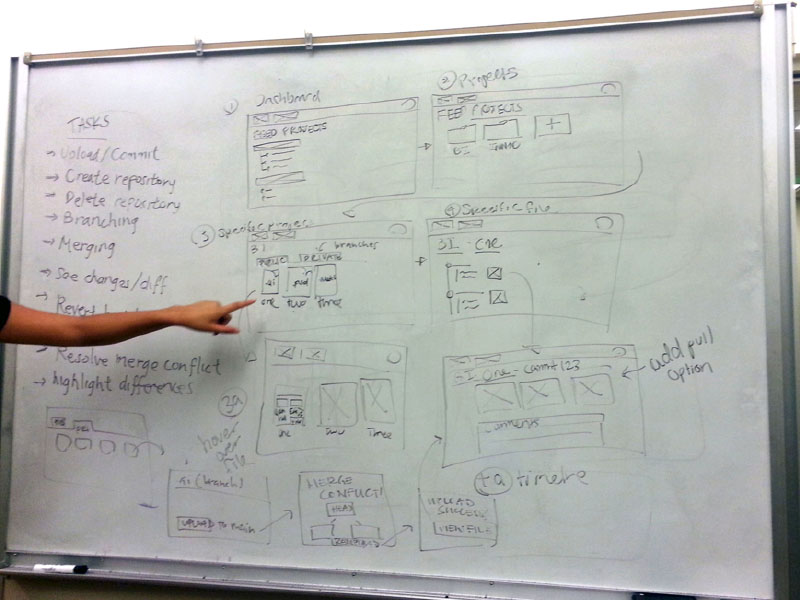
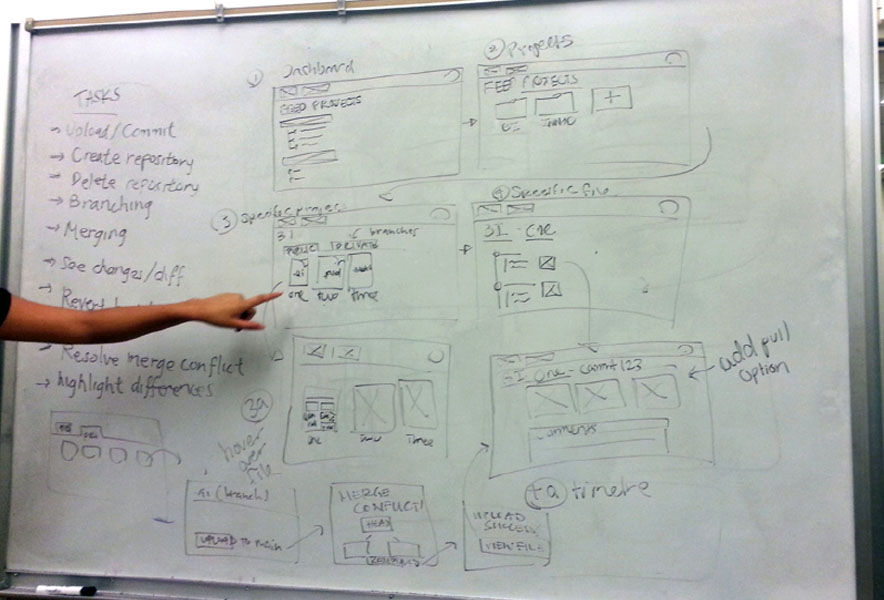
Fixed 2 whiteboard images to be of same dimensions so layout can be responsive

diff --git a/work/vertigo.html b/work/vertigo.html
@@ -99,11 +99,11 @@
 
 			<div class="row-container">
 				<center>
-					<div class="cell" style="padding-right: 20px">
-						<img src="../assets/vertigo/whiteboard1.jpg" style="height: 325px">
+					<div class="cell" style="width: 45%; padding-right: 2.5%">
+						<img src="../assets/vertigo/whiteboard1.jpg" style="max-width: 100%">
 					</div>
-					<div class="cell" style="padding-left: 20px">
-						<img src="../assets/vertigo/whiteboard2.jpg" style="height: 325px">
+					<div class="cell" style="width: 45%; padding-left: 2.5%">
+						<img src="../assets/vertigo/whiteboard2.jpg" style="max-width: 100%">
 					</div>
 				</center>
 				<p>Once we had the basic workflow outlined, we divvied up drawing out the sketches with pen and paper to present to Ian.</p>
